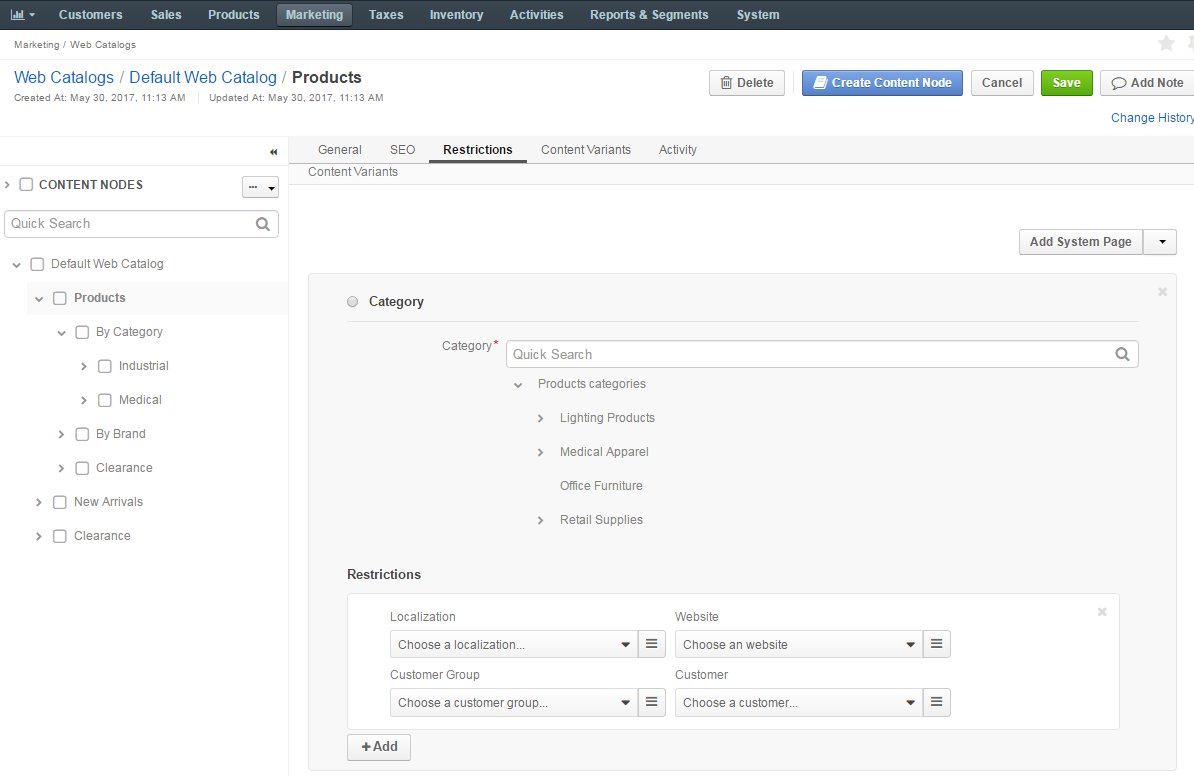
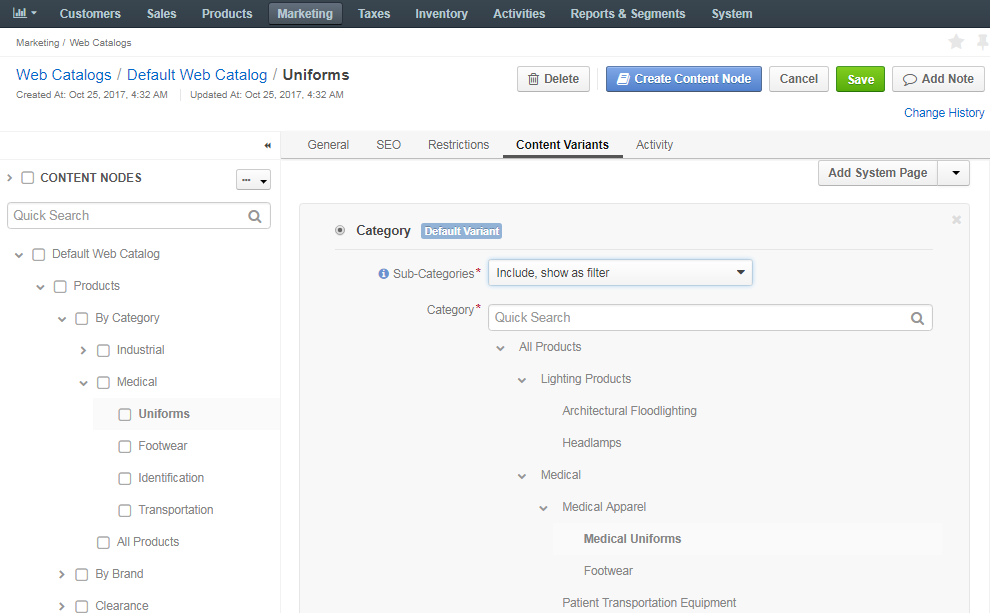
DOC-395: Subcategory filter (#14327)
* The corresponding section added

diff --git a/commerce/user_guide/marketing_web_catalog/edit_content_tree/category_node.rst b/commerce/user_guide/marketing_web_catalog/edit_content_tree/category_node.rst
@@ -5,23 +5,39 @@
 Add a Category (Web Catalog Content)
 """"""""""""""""""""""""""""""""""""
 
-Category node is a direct link to the product category with the list of products in OroCommerce Store Front.
+Category node is a direct link to the product category with the list of products in the OroCommerce Store Front.
 
 To add a category node to the menu on the OroCommerce Store Front:
 
-#. Select the **Add Category** in the Content Variants list.
+1. Select **Add Category** in the Content Variants list.
 
    The following section shows:
 
    .. image:: /user_guide/img/marketing/web_catalogs/WebCatalogCreateContentVariantsCategory.png
-      :class: with-border
 
-#. Select the category from the product catalog tree. To use search, start typing the category name in the box. Use **>** and **v** to expand/collapse the tree node.
+2. Click |Bdropdown| next to **Sub-Categories** to select the required option from the list.
 
-#. This step applies only to the content nodes with more than one content variant.
+   The available options are:
+
+   * **Include, show as filter** - Used to include all the products assigned to the subcategories of the selected category in addition to the products that are already assigned directly. The subcategories of the first level with at least one product will be displayed as a category filter in the OroCommerce Store Front.
+
+     .. image:: /user_guide/img/marketing/web_catalogs/subcategory_filter_1.png
+
+   * **Do not include** - Used to include the products assigned only to the selected category. In case the category has a subcategory, its product items will not be displayed.
+
+     .. image:: /user_guide/img/marketing/web_catalogs/subcategory_filter_2.png
+
+3. Select the category from the product catalog tree. To use search, start typing the category name in the box. Use **>** and **v** to expand/collapse the tree node.
+
+   .. image:: /user_guide/img/marketing/web_catalogs/subcategory_filter_3.png
+
+4. This step applies only to the content nodes with more than one content variant.
 
    When your category is not selected as a default variant for the content node, there is a *Restrictions* section beneath the tree of categories. In this section, you can define the condition when the selected category overrides the default content variant. See :ref:`Configure Content Visibility <user-guide--marketing--web-catalog--content--visibility>` section for more information.
 
-#. Click **Save** when you are done filling in the web catalog content node or keep adding the content variants.
+5. Click **Save** when you are done filling in the web catalog content node or keep adding the content variants.
 
 .. stop
+
+.. include:: /user_guide/include_images.rst
+   :start-after: begin
